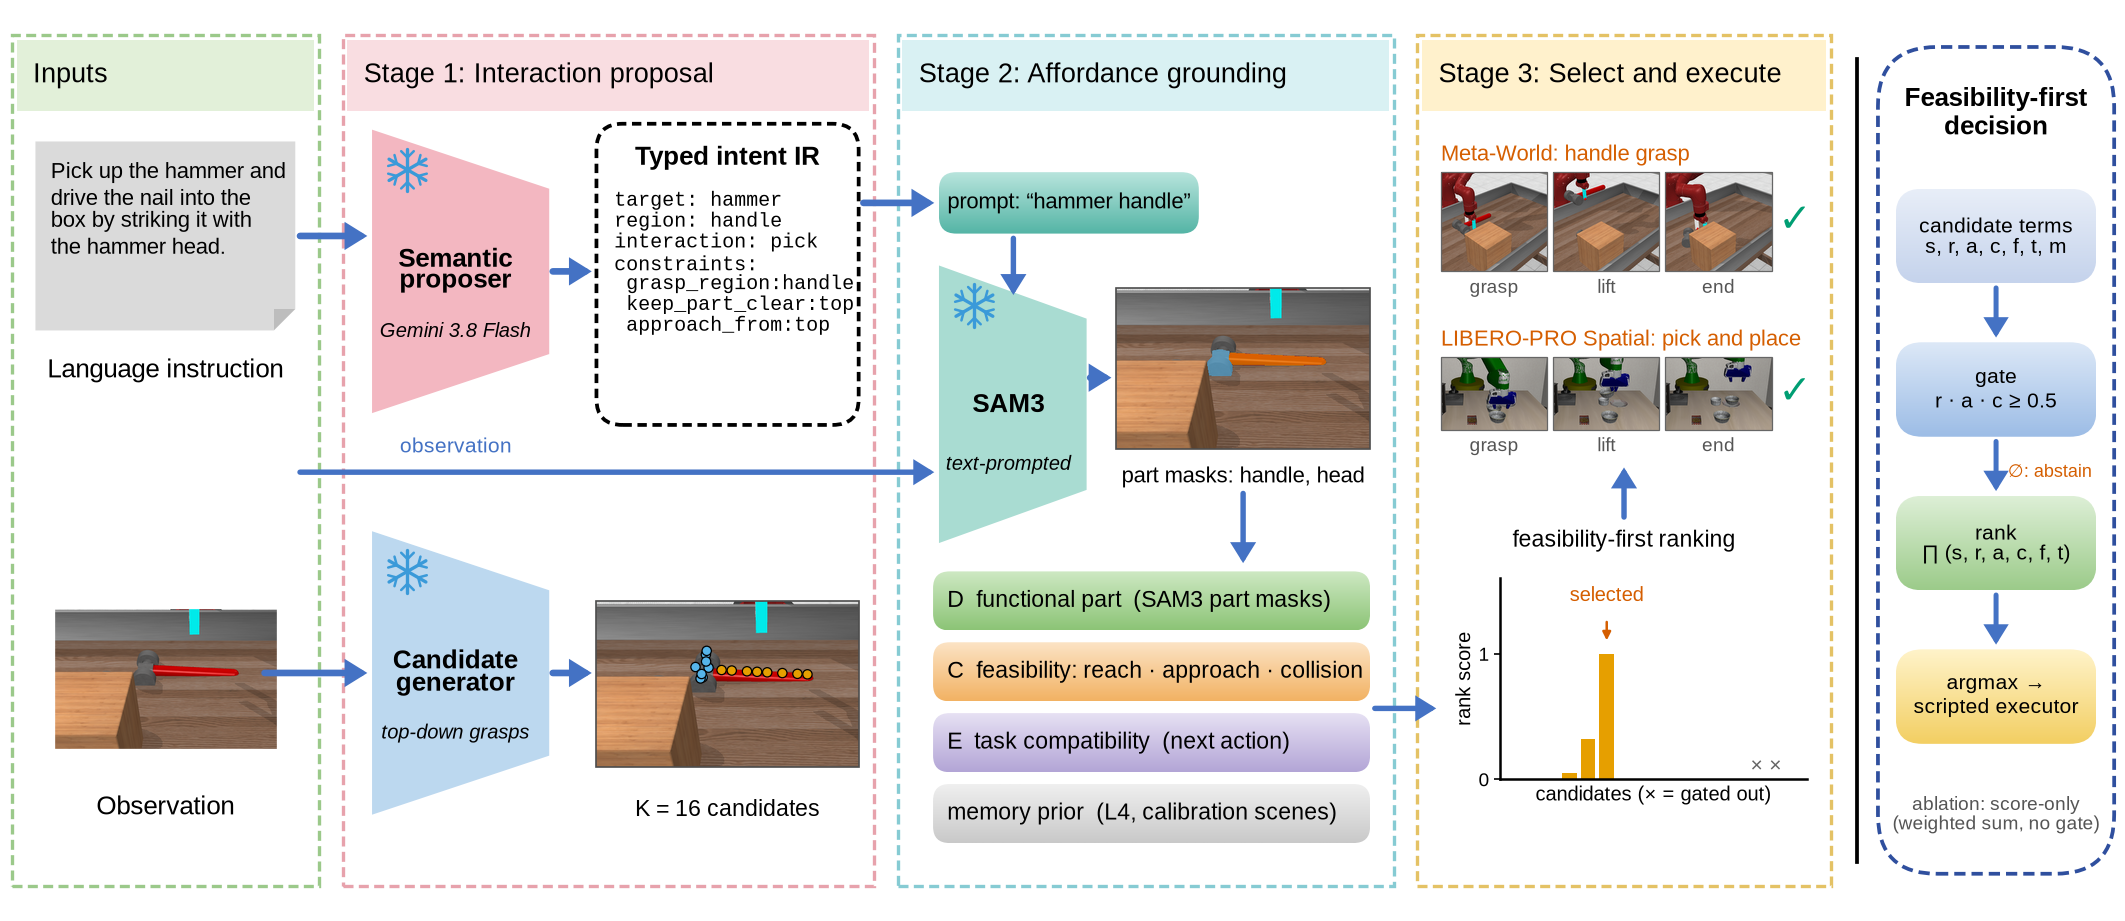
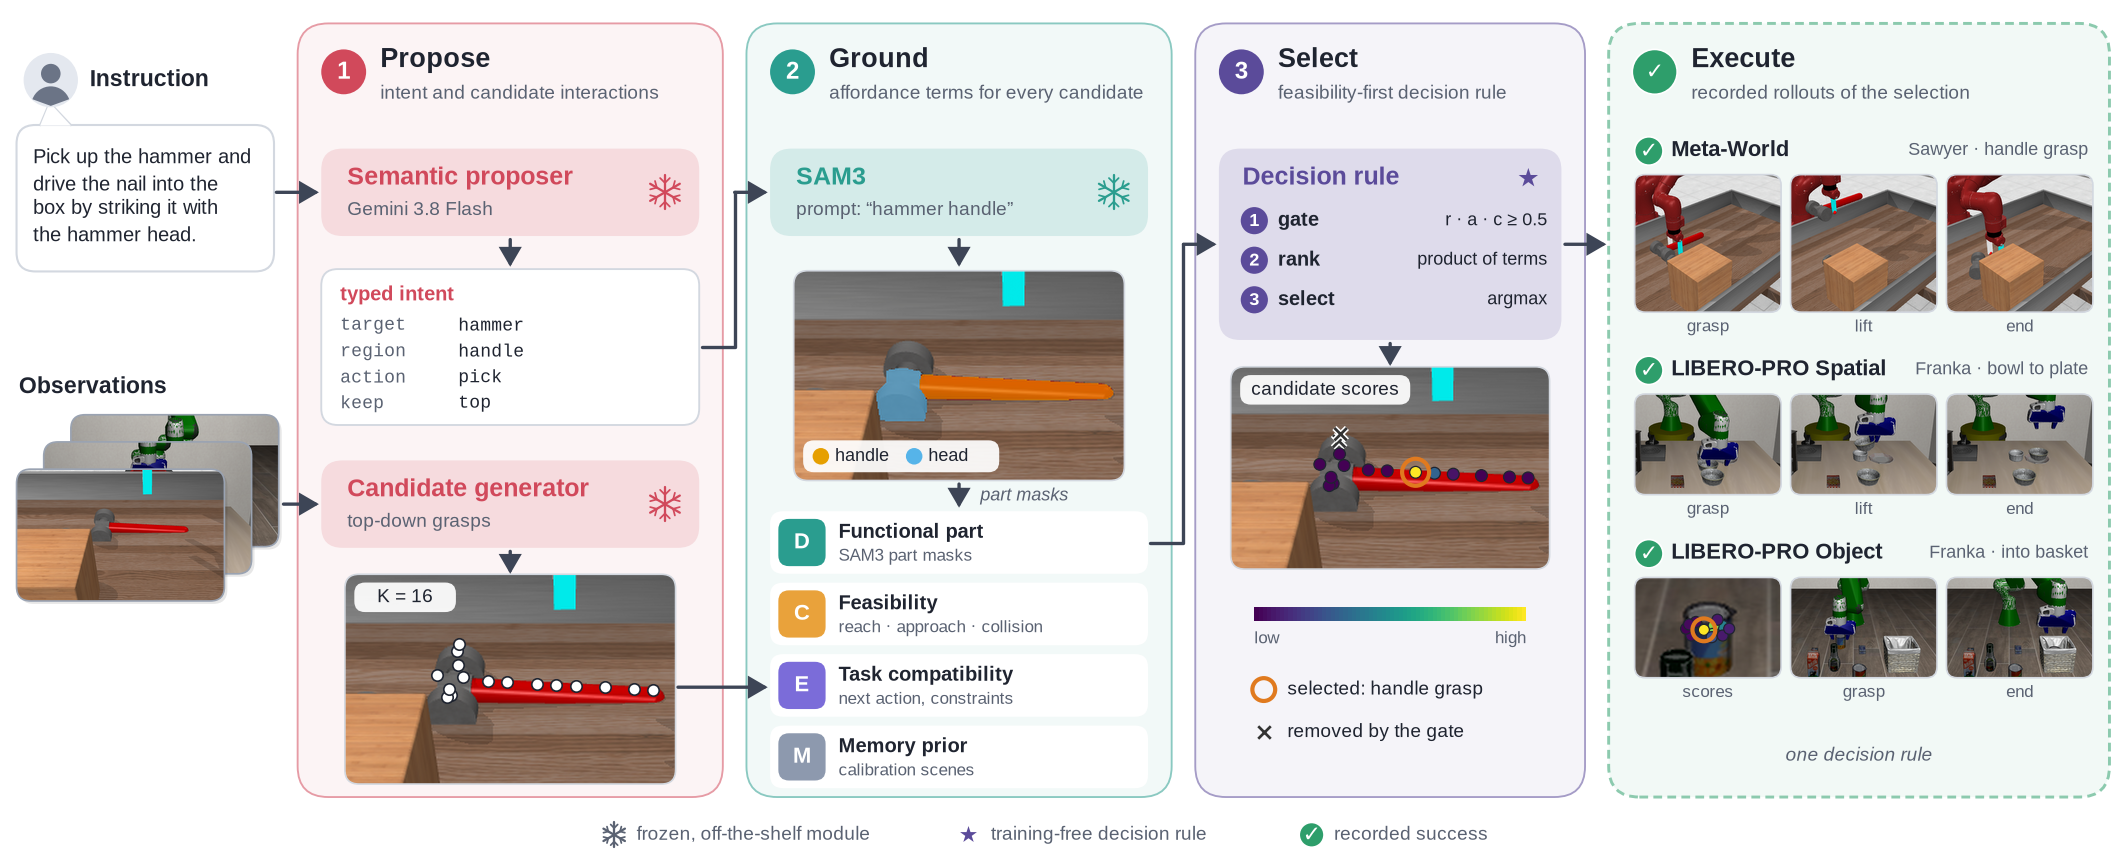
feat: redesigned framework figure with Meta-World and LIBERO-PRO Spatial and Object executions

diff --git a/index.html b/index.html
@@ -182,14 +182,14 @@
       <div class="hero-body">
         <figure class="ai-figure" style="margin-top:0">
           <img src="static/images/method_framework.png" class="ai-zoomable"
-               alt="The AFFORD-X framework on the Meta-World hammer scene: instruction and observation; a semantic proposer produces a typed intent and a candidate generator produces 16 grasps; SAM3 segments the handle and head; feasibility-first ranking selects a handle grasp, and keyframes show the selected interaction succeeding on Meta-World and on LIBERO-PRO Spatial">
+               alt="The AFFORD-X framework on the Meta-World hammer scene: instruction and observation; a semantic proposer produces a typed intent and a candidate generator produces 16 grasps; SAM3 segments the handle and head; feasibility-first ranking selects a handle grasp, and keyframes show the selected interaction succeeding on Meta-World and on LIBERO-PRO Spatial and Object">
           <figcaption>
             <strong>AFFORD-X on one pilot scene</strong> (Meta-World hammer, seed 0). <strong>Stage&nbsp;1:</strong>
             Gemini 3.8 Flash turns the instruction into a typed intent, and 16 top-down grasp candidates are generated
             (in this pilot, from simulator geometry). <strong>Stage&nbsp;2:</strong> SAM3 segments the parts the intent
             names, and the part masks feed the functional term beside feasibility, task compatibility and memory. <strong>Stage&nbsp;3:</strong> the feasibility-first rule removes what the arm cannot execute and
-            ranks the rest; the keyframes show the selected interaction succeeding on the Meta-World hammer scene and on a
-            LIBERO-PRO Spatial scene. Every image, mask, score and keyframe is read from logged runs, and no module is
+            ranks the rest; the keyframes show the selected interaction succeeding on the Meta-World hammer scene and on
+            LIBERO-PRO Spatial and Object scenes. Every image, mask, score and keyframe is read from logged runs, and no module is
             trained.
           </figcaption>
         </figure>
